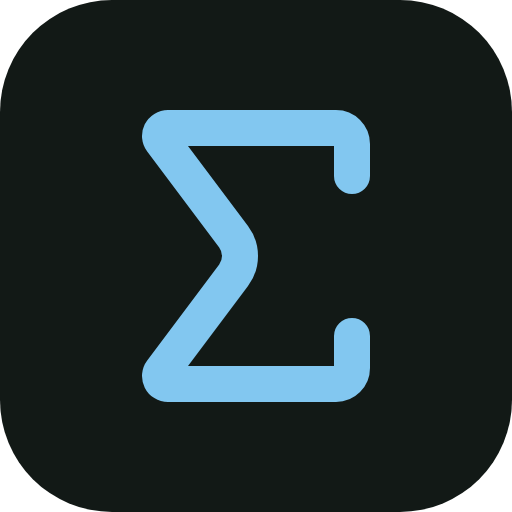
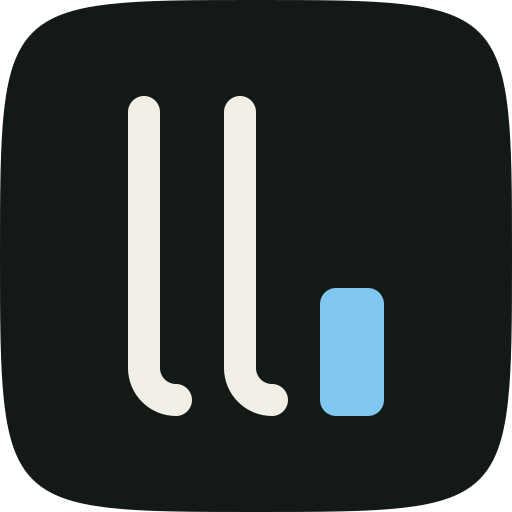
feat(web): replace the Sigma placeholder with local-llm's own mark
Decision D1 (2026-11-14) made lucide's Sigma the mark until a real one
existed. The owner chose the ll of the name followed by a block cursor,
on a squircle tile: foreground-strong letters with the Atkinson
Hyperlegible tail, and a brand-blue cursor.

Strokes are 2 units on whole-unit centres, so the favicon is crisp at 16
and 32 px. Updated AppMark (MARK_PATHS, MARK_CURSOR), the boot splash,
favicon.svg/.ico, apple-touch-icon.png, icon-512.png and the desktop
mark.svg; app-mark.test.tsx now checks every copy, the desktop one
included. Docs: WRD-3 in ui-standard.md, decisions.md, roadmap timeline.

Checked against: WRD-3, COL-1 (tokens only in AppMark), COL-4 (cursor
9.7:1 dark, 6.1:1 light), TYP-1.

diff --git a/apps/web/src/components/ui/app-mark.tsx b/apps/web/src/components/ui/app-mark.tsx
@@ -3,15 +3,26 @@ import { cn } from '@/lib/utils';
 const SIZES = { 20: 'size-5', 24: 'size-6', 32: 'size-8' } as const;
 
 /**
- * local-llm's mark (WRD-3): public/favicon.svg's shape drawn with the theme's
- * tokens, lucide's Sigma glyph in the brand colour on a `--surface-1`
- * rounded square. Shown beside the name in the sidebar header, the phone bar
- * and the boot splash; layouts/Base.astro's static splash repeats the same
- * SVG. Decorative unless given a `label`.
- *
- * The glyph is lucide's Sigma (ISC licence; copyright (c) for portions of
- * Lucide are held by Cole Bemis 2013-2022 as part of Feather (MIT); all other
- * copyright (c) for Lucide are held by Lucide Contributors 2022).
+ * The mark's three shapes. public/favicon.svg, apps/desktop/static/mark.svg
+ * and layouts/Base.astro's static splash draw the same paths, and
+ * app-mark.test.tsx fails if any of them drifts.
+ */
+export const MARK_PATHS = {
+	/** A squircle: one cubic per quadrant, within 0.06 units of an n=5 superellipse. */
+	tile: 'M16 0C31.9 0 32 .1 32 16S31.9 32 16 32 0 31.9 0 16 .1 0 16 0Z',
+	/** The ll of local-llm, each with the tail that keeps it from reading as I or 1. */
+	letters: 'M9 7V23a2 2 0 0 0 2 2M15 7V23a2 2 0 0 0 2 2'
+} as const;
+
+/** The block cursor after the letters: a model writing its answer. */
+export const MARK_CURSOR = { x: 20, y: 18, width: 4, height: 8, rx: 1 } as const;
+
+/**
+ * local-llm's mark (WRD-3): the ll of the name in `--foreground-strong`
+ * followed by a block cursor in `--brand`, on a `--surface-1` squircle.
+ * Strokes are 2 units on whole-unit centres, so they land on the pixel grid
+ * at 16 and 32 px. Shown beside the name in the sidebar header, the phone bar
+ * and the boot splash. Decorative unless given a `label`.
  */
 export function AppMark({
 	size = 24,
@@ -31,16 +42,16 @@ export function AppMark({
 			className={cn('shrink-0', SIZES[size], className)}
 			{...(label ? { role: 'img', 'aria-label': label } : { 'aria-hidden': true })}
 		>
-			<rect width="32" height="32" rx="7" className="fill-surface-1" />
+			<path d={MARK_PATHS.tile} className="fill-surface-1" />
 			<path
-				transform="translate(4 4)"
-				d="M18 7V5a1 1 0 0 0-1-1H6.5a.5.5 0 0 0-.4.8l4.5 6a2 2 0 0 1 0 2.4l-4.5 6a.5.5 0 0 0 .4.8H17a1 1 0 0 0 1-1v-2"
+				d={MARK_PATHS.letters}
 				fill="none"
-				strokeWidth="2.25"
+				strokeWidth="2"
 				strokeLinecap="round"
 				strokeLinejoin="round"
-				className="stroke-brand"
+				className="stroke-foreground-strong"
 			/>
+			<rect {...MARK_CURSOR} className="fill-brand" />
 		</svg>
 	);
 }

diff --git a/apps/web/src/components/ui/app-mark.test.tsx b/apps/web/src/components/ui/app-mark.test.tsx
@@ -2,7 +2,7 @@ import { readFileSync } from 'node:fs';
 import { resolve } from 'node:path';
 import { cleanup, render, screen } from '@testing-library/react';
 import { afterEach, describe, expect, it } from 'vitest';
-import { AppMark } from './app-mark';
+import { AppMark, MARK_CURSOR, MARK_PATHS } from './app-mark';
 
 afterEach(cleanup);
 
@@ -13,8 +13,12 @@ describe('AppMark', () => {
 		expect(svg.getAttribute('aria-hidden')).toBe('true');
 		expect(svg.getAttribute('role')).toBeNull();
 		expect(svg.getAttribute('class')).toContain('size-6');
-		expect(container.querySelector('rect')?.getAttribute('class')).toBe('fill-surface-1');
-		expect(container.querySelector('path')?.getAttribute('class')).toBe('stroke-brand');
+		const [tile, letters] = Array.from(container.querySelectorAll('path'));
+		expect(tile.getAttribute('class')).toBe('fill-surface-1');
+		expect(tile.getAttribute('d')).toBe(MARK_PATHS.tile);
+		expect(letters.getAttribute('class')).toBe('stroke-foreground-strong');
+		expect(letters.getAttribute('d')).toBe(MARK_PATHS.letters);
+		expect(container.querySelector('rect')?.getAttribute('class')).toBe('fill-brand');
 	});
 
 	it('is an image named by its label when it stands for the name', () => {
@@ -31,12 +35,22 @@ describe('AppMark', () => {
 	});
 });
 
-describe('the static splash', () => {
-	it("draws the same mark as AppMark and the favicon, before any script runs", () => {
-		const { container } = render(<AppMark />);
-		const d = container.querySelector('path')?.getAttribute('d') ?? '';
-		expect(d).not.toBe('');
-		expect(readFileSync(resolve(process.cwd(), 'src/layouts/Base.astro'), 'utf8')).toContain(`d="${d}"`);
-		expect(readFileSync(resolve(process.cwd(), 'public/favicon.svg'), 'utf8')).toContain(`d="${d}"`);
-	});
+describe('the mark\'s other copies', () => {
+	const cursor = Object.entries(MARK_CURSOR)
+		.map(([name, value]) => `${name}="${value}"`)
+		.join(' ');
+	const copies = {
+		'the static splash': 'src/layouts/Base.astro',
+		'the favicon': 'public/favicon.svg',
+		"the desktop app's windows": '../desktop/static/mark.svg'
+	};
+
+	for (const [what, path] of Object.entries(copies)) {
+		it(`${what} draws the same mark as AppMark`, () => {
+			const source = readFileSync(resolve(process.cwd(), path), 'utf8');
+			expect(source).toContain(`d="${MARK_PATHS.tile}"`);
+			expect(source).toContain(`d="${MARK_PATHS.letters}"`);
+			expect(source).toContain(cursor);
+		});
+	}
 });

diff --git a/apps/desktop/static/status.css b/apps/desktop/static/status.css
@@ -99,8 +99,8 @@ header {
 #progress-view > * + * {
 	margin-top: 12px;
 }
-/* The mark beside the window's heading (#1115): the app's Sigma, the same
-   file as the web app's favicon. */
+/* The mark beside the window's heading (#1115): the same file as the web
+   app's favicon. Its squircle is its own shape, so the image is not clipped. */
 .brand {
 	display: flex;
 	align-items: center;
@@ -109,7 +109,6 @@ header {
 }
 .mark {
 	flex: none;
-	border-radius: 6px;
 }
 h1 {
 	margin: 0;

diff --git a/apps/server/tests/test_product_name.py b/apps/server/tests/test_product_name.py
@@ -44,8 +44,9 @@ WEB_PUBLIC = Path(__file__).resolve().parents[2] / 'web' / 'public'
 
 
 def test_the_manifest_shows_the_mark_on_the_page_colour(monkeypatch):
-    # Decision D1 (2026-11-14, #924): lucide's Sigma, not Open WebUI's 'OI' logo,
-    # on the dark theme's --page, not Open WebUI's grey.
+    # Decision D1 (2026-11-14, #924): the product's own mark (since 2026-11-16 the
+    # ll and cursor), not Open WebUI's 'OI' logo, on the dark theme's --page, not
+    # Open WebUI's grey.
     monkeypatch.setattr(main.app.state, 'LLLM_NAME', 'local-llm', raising=False)
     monkeypatch.setattr(main.app.state, 'EXTERNAL_PWA_MANIFEST_URL', None, raising=False)
     manifest = asyncio.run(main.get_manifest_json())

diff --git a/apps/server/local_llm/config.py b/apps/server/local_llm/config.py
@@ -128,7 +128,7 @@ for file_path in FRONTEND_STATIC_DIR.glob('**/*'):
 # Since decision D1 (2026-11-14) the model and user picture endpoints answer
 # 404 for one without a picture, and the frontend draws initials, so Open
 # WebUI's user.png and favicon.png are gone. A webhook without a picture still
-# gets an image, the mark (lucide's Sigma): it lives at the frontend's root,
+# gets an image, the product's mark: it lives at the frontend's root,
 # not under static/, so it is copied here by name. The build first, then the source.
 WEBHOOK_FALLBACK_IMAGE = STATIC_DIR / 'icon-512.png'
 for mark in (FRONTEND_BUILD_DIR / 'icon-512.png', FRONTEND_BUILD_DIR.parent / 'public' / 'icon-512.png'):

diff --git a/apps/server/tests/test_profile_image_endpoints.py b/apps/server/tests/test_profile_image_endpoints.py
@@ -7,7 +7,7 @@ an empty value, the stored defaults (/user.png, /favicon.png,
 /static/favicon.png: left in the rows as they are) and an unusable one. A real
 picture is still served as before. A webhook without a picture keeps its
 status (the owner approved the 404 for models and users only) and gets the
-mark, lucide's Sigma, in place of Open WebUI's favicon.
+product's mark in place of Open WebUI's favicon.
 
 Run from apps/server:
 

diff --git a/docs/decisions.md b/docs/decisions.md
@@ -7,6 +7,30 @@ Dated record of why the project is the way it is. Moved verbatim from `docs/CLAU
 - Keep a short, dated log here of model evaluation results and any changes to the
   model/provider choices above, so future sessions have that context without needing
   to re-derive it.
+- **2026-11-16** (latest): **local-llm has its own mark: the ll of the name
+  and a block cursor**, replacing lucide's Sigma, which decision D1
+  (2026-11-14, #924) had made the mark only until a real one existed. The
+  owner chose it from four rounds of concepts (a roof over the ll, an
+  A-frame, hardware and chat symbols, and circular avatars).
+  - **What it is.** The two l's, each with the tail Atkinson Hyperlegible
+    gives a lowercase l so it cannot be read as I or 1 (TYP-1), in
+    `--foreground-strong`, then a block cursor in `--brand`: a model writing
+    its answer. The tile is a squircle (one cubic per quadrant, within 0.06
+    units of an n=5 superellipse) in place of the 7-unit rounded square.
+  - **Why it is drawn this way.** Strokes are 2 units on whole-unit centres
+    and every gap is 2 units, so at 16 and 32 px each edge lands on a pixel
+    and the favicon has no grey fringe. In the dark theme the letters are
+    15.5:1 and the cursor 9.7:1 on the tile; in light the cursor is 6.1:1
+    on the page (COL-4 asks 3:1).
+  - **Where it changed.** `AppMark` (`MARK_PATHS`, `MARK_CURSOR`), the boot
+    splash in `layouts/Base.astro`, `public/favicon.svg`, `favicon.ico`
+    (16 and 32 px frames, each rendered at its size), `apple-touch-icon.png`
+    (180 px, full bleed on `#121916`, since iOS rounds the corners itself),
+    `icon-512.png` (also the desktop window's, the rpm's, the PWA manifest's
+    and the webhook fallback's image) and `apps/desktop/static/mark.svg`,
+    whose `.mark` no longer rounds its corners because the squircle is its
+    own shape. `app-mark.test.tsx` now checks every copy, the desktop one
+    included, against `AppMark`'s shapes.
 - **2026-11-15** (latest): **The workspace: the owner's decisions for the UX
   review's section 4 (#1116), and editors that guard unsaved work.**
   - **Multi-user chrome is hidden while the install has one account (#1013,

diff --git a/docs/ROADMAP.md b/docs/ROADMAP.md
@@ -102,6 +102,7 @@ timeline
       2026-11-15 : Owner decisions for the UX review's app shell section : sidebar open with a rail when closed, share links ask who can open them, theme saved with the account, Settings Integrations hidden, a start page at /home, Settings 64 rem wide : pinning, archiving or moving a chat no longer changes its date
       2026-11-15 : Owner decisions for the UX review's chat section : the Arena model and message rating off by default (revision c17c2aeb2577), a thumb saves at once and pressing it again removes the rating, Ollama-only parameters follow the Ollama connection, stopped replies say so, follow-ups fill the message box : canvas Phase 1 built, Controls and the preview in one side panel
       2026-11-15 : Owner decisions for the UX review's workspace section : multi-user chrome hidden while one account exists, a new model starts with memory, web search and the code interpreter on, only imported or cloned code is acknowledged : editors guard unsaved work, knowledge file removal confirms, failed uploads stay for the visit
+      2026-11-16 : local-llm's own mark : the ll of the name and a block cursor on a squircle, replacing lucide's Sigma in the favicon, icons, AppMark, the boot splash and the desktop windows
     section Near-Term
       "~1 week" : Resolve the blocking rack hole-type question : confirm riser and PSU questions : re-verify current component pricing
       "~2-4 weeks" : First measurements on native Linux : pre-screen each local profile, then confirm the leaders with Tests runs

diff --git a/docs/guides/ui-standard.md b/docs/guides/ui-standard.md
@@ -786,11 +786,13 @@ from the accessible name: 'Max tokens · `max_tokens`', 'Layers on the GPU ·
 **WRD-3. The product is "local-llm"**, written that way everywhere: the tab
 title, the sidebar, the sign-in page, the desktop app. Nothing in the
 interface names or links to Open WebUI except the notices the licence
-requires. The mark is `components/ui/app-mark.tsx` (`AppMark`): lucide's
-Sigma in `--brand` on a `--surface-1` rounded square, the favicon's shape, at
-20, 24 or 32 px. It appears in the sidebar header, the phone bar, the boot
-splash (Base.astro repeats the same SVG), the sign-in page and the shared
-page.
+requires. The mark is `components/ui/app-mark.tsx` (`AppMark`): the ll of
+the name in `--foreground-strong` followed by a block cursor in `--brand`,
+on a `--surface-1` squircle, the favicon's shape, at 20, 24 or 32 px. It
+appears in the sidebar header, the phone bar, the boot splash (Base.astro
+repeats the same SVG), the sign-in page and the shared page. The favicon and
+the desktop app's `static/mark.svg` draw the same shapes in the dark theme's
+colours as hex; `app-mark.test.tsx` fails if a copy drifts.
 
 **WRD-4. There is one owner.** No "users", "admins", "contact your
 administrator", "shared with you". Features that only make sense with several
